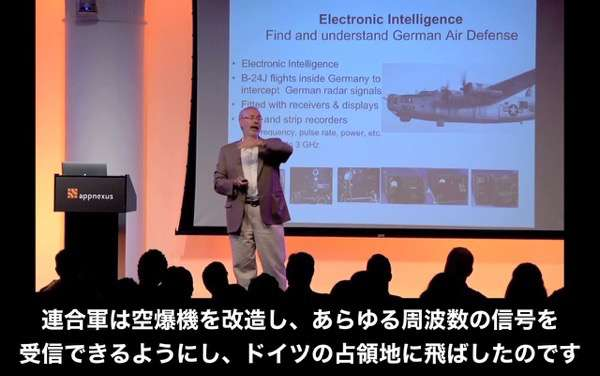
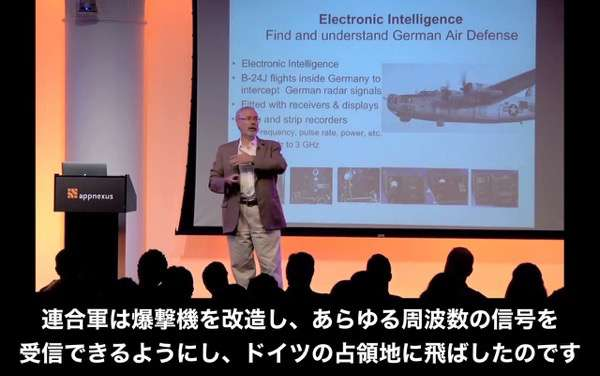
Fix translation errors

diff --git a/ja/ja-most-popular/_posts/2016-03-08-silicon-valley-history.md b/ja/ja-most-popular/_posts/2016-03-08-silicon-valley-history.md
@@ -135,8 +135,6 @@ list_item_comment: "第二次世界大戦がシリコンバレーを生んだ話
 
 <img src="http://chibicode.com/assets/images/silicon-valley-history/026.jpg" class="js-sv-history-img" />
 
-(↑ 12月の間違いでした。)
-
 <img src="http://chibicode.com/assets/images/silicon-valley-history/027.jpg" class="js-sv-history-img" />
 
 <img src="http://chibicode.com/assets/images/silicon-valley-history/028.jpg" class="js-sv-history-img" />
@@ -150,8 +148,6 @@ list_item_comment: "第二次世界大戦がシリコンバレーを生んだ話
 <img src="http://chibicode.com/assets/images/silicon-valley-history/032.jpg" class="js-sv-history-img" />
 
 <img src="http://chibicode.com/assets/images/silicon-valley-history/033.jpg" class="js-sv-history-img" />
-
-(↑ 空爆機 → 爆撃機です。日本語の戦争用語の知識ゼロで翻訳したので失礼しました。)
 
 <img src="http://chibicode.com/assets/images/silicon-valley-history/034.jpg" class="js-sv-history-img" />
 
